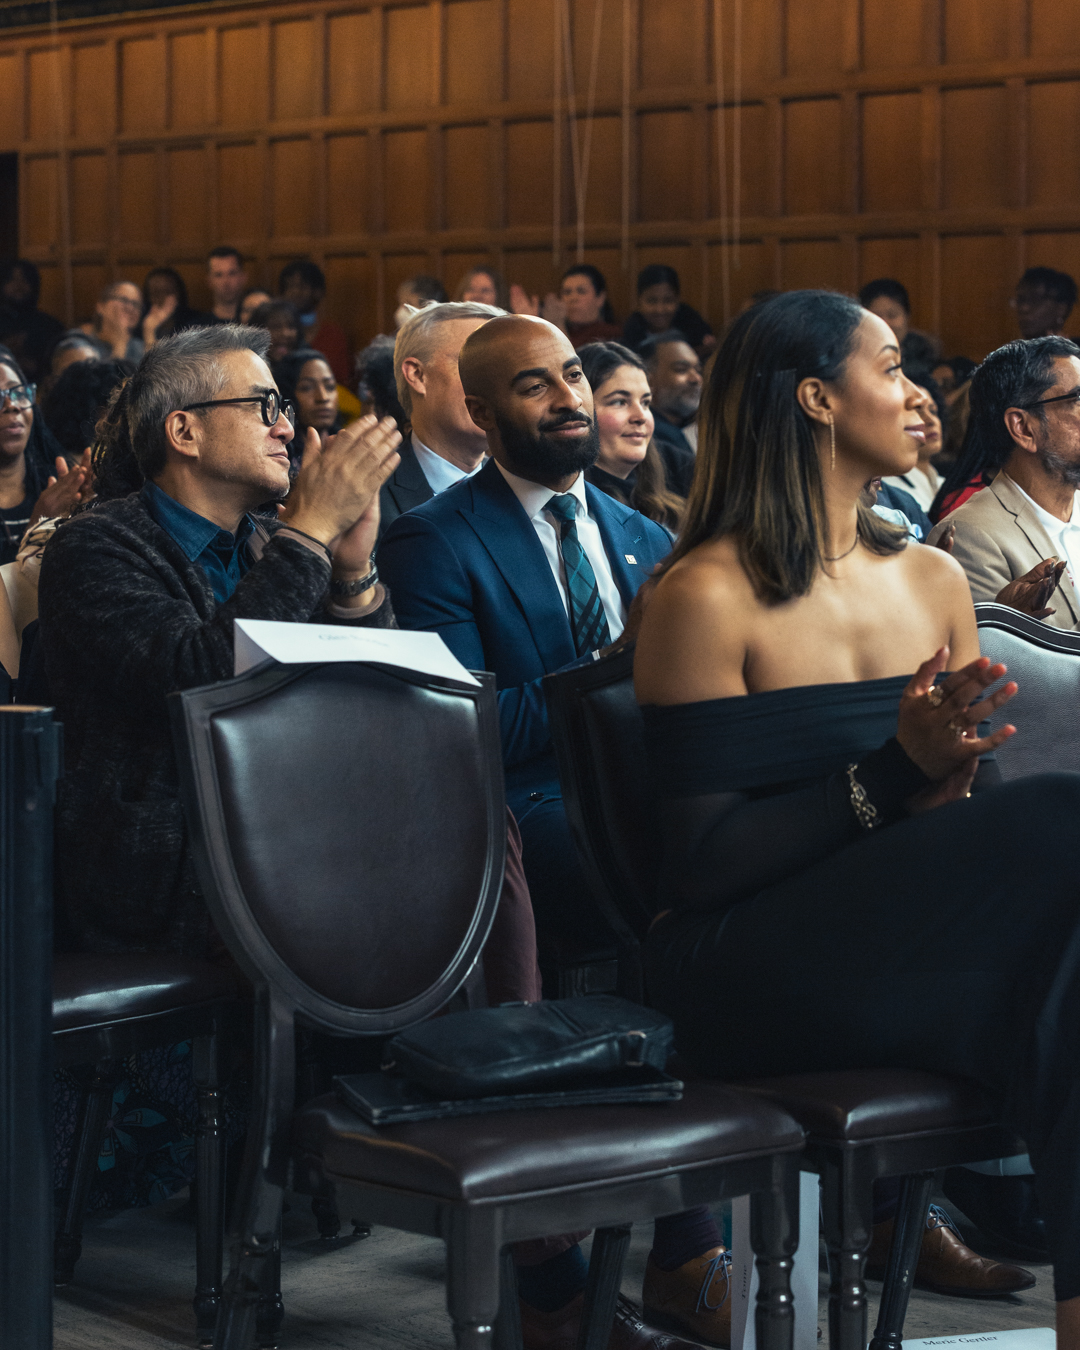
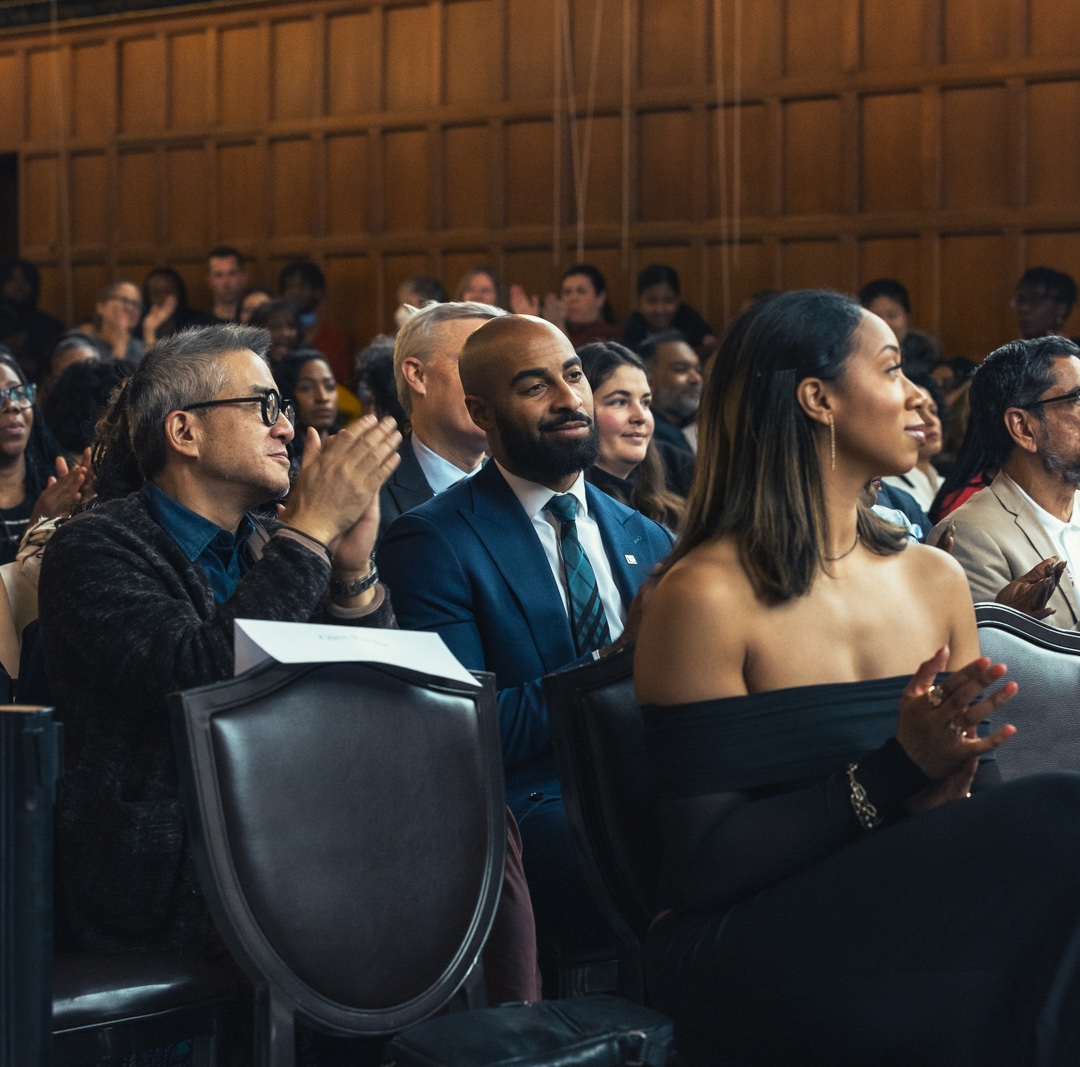
Update: added photos/videos and reduced navbar padding

diff --git a/samp-chief/app/projects/[slug]/page.tsx b/samp-chief/app/projects/[slug]/page.tsx
@@ -176,6 +176,62 @@ export default async function ProjectDetailPage({ params }: { params: Promise<{ 
                 }
 
                 // default: image
+                // Support per-block `fit` property (cover, contain, fill, none, scale-down)
+                const fit = block.fit || 'cover';
+                const fitClass = (() => {
+                  switch (fit) {
+                    case 'contain':
+                      return 'object-contain';
+                    case 'fill':
+                      return 'object-fill';
+                    case 'none':
+                      return 'object-none';
+                    case 'scale-down':
+                      return 'object-scale-down';
+                    case 'cover':
+                    default:
+                      return 'object-cover';
+                  }
+                })();
+
+                // position: prefer Tailwind object-position classes for common values,
+                // otherwise apply inline style via objectPosition.
+                const position = block.position || '';
+                const positionClass = (() => {
+                  switch ((position || '').toLowerCase()) {
+                    case 'top':
+                      return 'object-top';
+                    case 'bottom':
+                      return 'object-bottom';
+                    case 'left':
+                      return 'object-left';
+                    case 'right':
+                      return 'object-right';
+                    case 'center':
+                      return 'object-center';
+                    case 'top-left':
+                    case 'left-top':
+                      return 'object-top object-left';
+                    case 'top-right':
+                    case 'right-top':
+                      return 'object-top object-right';
+                    case 'bottom-left':
+                    case 'left-bottom':
+                      return 'object-bottom object-left';
+                    case 'bottom-right':
+                    case 'right-bottom':
+                      return 'object-bottom object-right';
+                    default:
+                      return '';
+                  }
+                })();
+
+                const inlineStyle: React.CSSProperties = {};
+                if (!positionClass && position) {
+                  // arbitrary CSS object-position value (e.g. '10% 0%', 'center top')
+                  inlineStyle.objectPosition = position;
+                }
+
                 return (
                   <div key={block.src || idx} className={classes}>
                     <Image
@@ -183,8 +239,9 @@ export default async function ProjectDetailPage({ params }: { params: Promise<{ 
                       alt={event.title + ' project image ' + (idx + 1)}
                       fill
                       sizes="(min-width:1280px) 18vw, (min-width:1024px) 24vw, (min-width:640px) 40vw, 80vw"
-                      className="object-cover object-center"
+                      className={`${fitClass} ${positionClass || 'object-center'}`}
                       priority={idx === 0}
+                      style={inlineStyle}
                     />
                   </div>
                 );

diff --git a/samp-chief/src/data/events.ts b/samp-chief/src/data/events.ts
@@ -1,7 +1,7 @@
 export type Event = {
   title: string;
   projectcard: string;  // project card image
-  brandLogo?: string; // brand logo image path for card overlay
+  brandLogo?: string;
   description: string;
   slug: string;
   imageFolder: string;
@@ -11,16 +11,17 @@ export type Event = {
   ethos?: string;
   location?: string;
   services?: string;
-  heroImage?: string; // New property for hero image
+  heroImage?: string;
   images?: Array<{
     src: string;
     gridSpan?: string;
     colStart?: string;
     rowStart?: string;
+    fit?: 'cover' | 'contain' | 'fill' | 'none' | 'scale-down';
+    position?: 'top' | 'bottom' | 'left' | 'right' | 'center' | 'top-left' | 'top-right' | 'bottom-left' | 'bottom-right';
   }>;
-  // Optional contentBlocks allow mixing images, video, and text in the project grid.
   contentBlocks?: Array<
-    | ({ type?: 'image' } & { src: string; alt?: string; gridSpan?: string; colStart?: string; rowStart?: string })
+    | ({ type?: 'image' } & { src: string; alt?: string; gridSpan?: string; colStart?: string; rowStart?: string; fit?: 'cover' | 'contain' | 'fill' | 'none' | 'scale-down'; position?: 'top' | 'bottom' | 'left' | 'right' | 'center' | 'top-left' | 'top-right' | 'bottom-left' | 'bottom-right' })
     | ({ type: 'video' } & { src: string; alt?: string; gridSpan?: string; colStart?: string; rowStart?: string })
     | ({ type: 'text' } & { html: string; gridSpan?: string; colStart?: string; rowStart?: string })
   >;
@@ -91,7 +92,7 @@ export const events: Event[] = [
       services: "Music curation",
       heroImage: "/assets/projects/u-of-t/1.jpg",
       contentBlocks: [
-          { type: 'image', src: "/assets/projects/u-of-t/cover.jpg", gridSpan: "col-span-2 row-span-4", colStart: "col-start-1", rowStart: "row-start-1" },
+          { type: 'image', src: "/assets/projects/u-of-t/4.jpg", gridSpan: "col-span-2 row-span-4", colStart: "col-start-1", rowStart: "row-start-1" },
           { type: 'image', src: "/assets/projects/u-of-t/2.jpg", gridSpan: "col-span-2 row-span-2", colStart: "col-start-3", rowStart: "row-start-1" },
           { type: 'image', src: "/assets/projects/u-of-t/3.JPG", gridSpan: "col-span-2 row-span-2", colStart: "col-start-3", rowStart: "row-start-3" }
         ]
@@ -120,12 +121,17 @@ export const events: Event[] = [
         { type: 'image', src: "/assets/projects/holt-renfrew/8.jpeg" },
         { type: 'image', src: "/assets/projects/holt-renfrew/2.jpeg" },
         { type: 'image', src: "/assets/projects/holt-renfrew/3.jpg", gridSpan: "col-span-2 row-span-2" },
-        { type: 'image', src: "/assets/projects/holt-renfrew/poster.JPG", gridSpan: "col-span-1 row-span-2" },
+        { type: 'image', src: "/assets/projects/holt-renfrew/poster.JPG", gridSpan: "col-span-1 row-span-2", fit: 'fill' },
         { type: 'image', src: "/assets/projects/holt-renfrew/5.jpg", gridSpan: "col-span-1 row-span-2" },
-        { type: 'image', src: "/assets/projects/holt-renfrew/1.jpg", gridSpan: "col-span-1 row-span-2" },
-        { type: 'image', src: "/assets/projects/holt-renfrew/6.jpg", gridSpan: "col-span-1 row-span-2" },
-        { type: 'video', src: "/assets/projects/holt-renfrew/video1.MOV", gridSpan: "col-span-2 row-span-3" },
-        { type: 'image', src: "/assets/projects/holt-renfrew/cover.jpg", gridSpan: "col-span-2 row-span-1" },
+        { type: 'image', src: "/assets/projects/holt-renfrew/12.jpg", gridSpan: "col-span-1 row-span-2" },
+        { type: 'image', src: "/assets/projects/holt-renfrew/6.jpg", gridSpan: "col-span-1 row-span-2", fit: 'fill' },
+        { type: 'video', src: "/assets/videos/sample2.MP4", gridSpan: "col-span-2 row-span-3" },
+        { type: 'text', html: `<p>The partnership extended beyond digital and in-store activations with a music trivia night and a live celebration featuring DJs and performances by No Tourists, Onii-Sama, Big Jacks, Savvv, and more. To tie it all together, we produced a collectible zine distributed nationwide across Holt Renfrew stores and at both events, further amplifying the stories and legacy of Black Canadian music.</p>`, gridSpan: "col-span-2" },
+        { type: 'image', src: "/assets/projects/holt-renfrew/11.jpg", gridSpan: "col-span-2 row-span-2" },
+        { type: 'image', src: "/assets/projects/holt-renfrew/cover.jpg", gridSpan: "col-span-2 row-span-2" },
+        { type: 'image', src: "/assets/projects/holt-renfrew/14.jpg", gridSpan: "col-span-2 row-span-2" },
+        { type: 'image', src: "/assets/projects/holt-renfrew/1.jpg", gridSpan: "col-span-2 row-span-2" },
+        { type: 'image', src: "/assets/projects/holt-renfrew/13.jpeg", gridSpan: "col-span-4 row-span-3" }
       ]
     },
     {
@@ -152,6 +158,8 @@ export const events: Event[] = [
         { type: 'image', src: "/assets/projects/village-boogie/3.jpg", gridSpan: "col-span-1 row-span-2" },
         { type: 'image', src: "/assets/projects/village-boogie/8.jpg", gridSpan: "col-span-1 row-span-2" },
         { type: 'image', src: "/assets/projects/village-boogie/9.jpg", gridSpan: "col-span-2 row-span-2" },
+        { type: 'video', src: "/assets/videos/sample.mp4", gridSpan: "col-span-2 row-span-2" },
+        { type: 'video', src: "/assets/projects/village-boogie/10.mov", gridSpan: "col-span-2 row-span-2" },
         { type: 'image', src: "/assets/projects/village-boogie/5.jpg", gridSpan: "col-span-2 row-span-2" }
       ]
     }

diff --git a/samp-chief/src/components/layout/Navbar.tsx b/samp-chief/src/components/layout/Navbar.tsx
@@ -72,7 +72,7 @@ export default function Navbar() {
       isHome ? "absolute top-0 left-0 right-0" : "sticky top-0"
     } z-50 transition-all duration-300 ease-in-out 
     ${backgroundColor} ${textColor} 
-    ${isScrolled ? "py-2 shadow-sm" : isHome ? "py-4" : "py-6 md:py-8"}
+    ${isScrolled ? "py-1 shadow-sm" : isHome ? "py-2" : "py-3 md:py-4"}
     border-none rounded-none
   `;
 